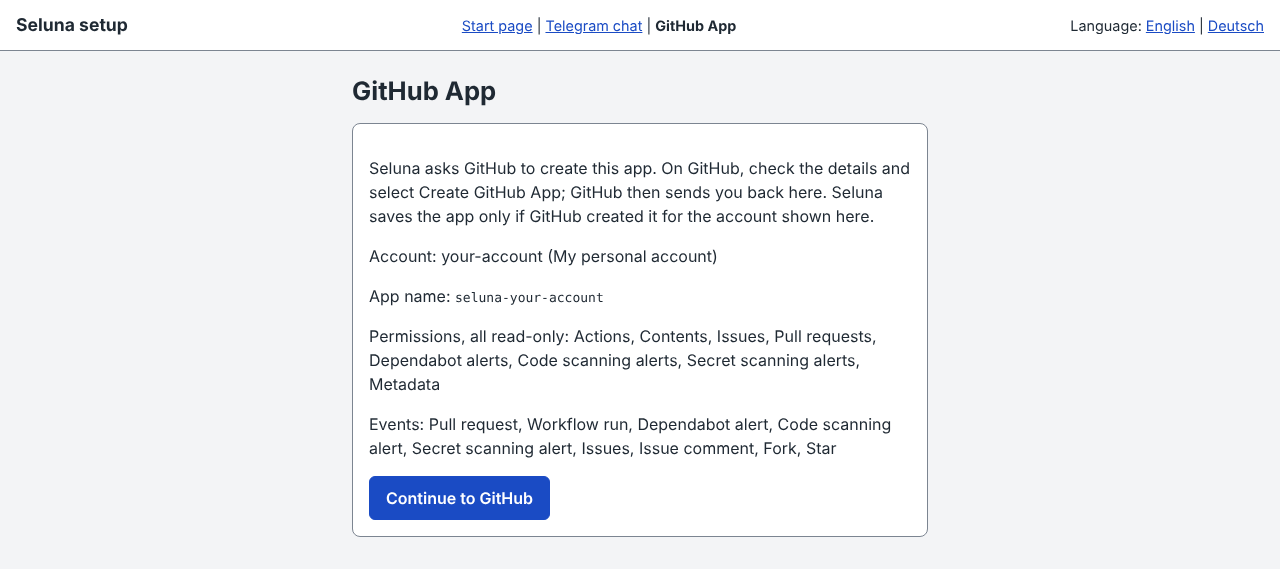
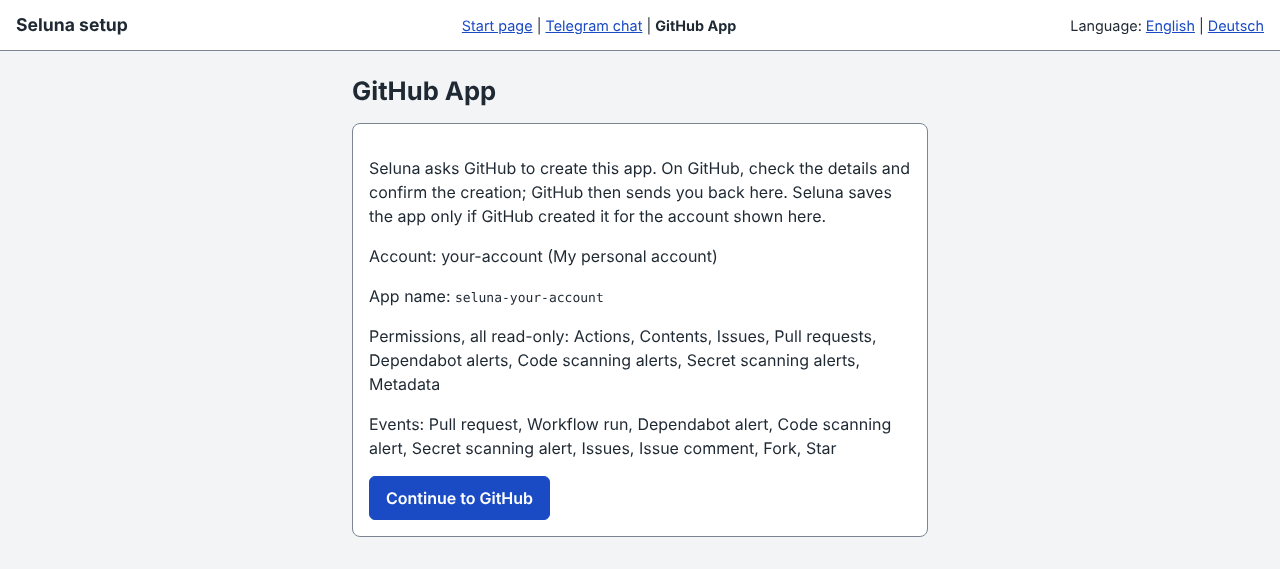
[Setup] Describe other services' steps in plain words on the setup pages (#169)

Changed region(s): [[0.2812, 0.3286, 0.6875, 0.3884]]

diff --git a/src/setup/texts.ts b/src/setup/texts.ts
@@ -236,13 +236,13 @@ const ENGLISH: SetupTexts = {
   githubSavedApp: "Saved GitHub App, App ID:",
   githubNoSavedApp: "No GitHub App is saved yet.",
   githubReplaceHint:
-    "Creating a new app replaces the saved one. Delete the old app on GitHub afterwards: in the settings of your account or organization, under Developer settings, then GitHub Apps.",
+    "Creating a new app replaces the saved one. Afterwards, delete the old app on GitHub, in the settings of the account or organization that owns it.",
   githubPersonal: "My personal account",
   githubOrganization: "An organization",
   githubAccountLabel: "Name of the account or organization, as in github.com/name",
   githubNextButton: "Next",
   githubReviewIntro:
-    "Seluna asks GitHub to create this app. On GitHub, check the details and select Create GitHub App; GitHub then sends you back here. Seluna saves the app only if GitHub created it for the account shown here.",
+    "Seluna asks GitHub to create this app. On GitHub, check the details and confirm the creation; GitHub then sends you back here. Seluna saves the app only if GitHub created it for the account shown here.",
   githubReviewAccountLabel: "Account:",
   githubAppNameLabel: "App name:",
   githubPermissionsLabel: "Permissions, all read-only:",
@@ -259,7 +259,7 @@ const ENGLISH: SetupTexts = {
     "Now install it on your account or organization. Choosing Only select repositories is recommended: Seluna then sees only the repositories you pick, and you add a new repository to the installation by hand.",
   githubInstallLink: "Install the app on GitHub",
   githubInstallManual:
-    "Install it on GitHub: in the settings of your account or organization, open Developer settings, then GitHub Apps, choose the app and select Install App. Choosing Only select repositories is recommended: Seluna then sees only the repositories you pick, and you add a new repository to the installation by hand.",
+    "Install it on GitHub: open the app in the settings of your account or organization and install it there. Choosing Only select repositories is recommended: Seluna then sees only the repositories you pick, and you add a new repository to the installation by hand.",
   githubBackLink: "Back to the GitHub App step",
   statusHeading: "Status",
   versionLabel: "Version:",
@@ -304,7 +304,7 @@ const ENGLISH: SetupTexts = {
   accessNotChecked: "access not checked",
   resetHeading: "The saved credentials cannot be read",
   resetText:
-    "The saved credentials cannot be read with the current SELUNA_SECRET: it was changed, or a saved value is damaged. If you still know the earlier SELUNA_SECRET, set it again instead. Otherwise reset: Seluna deletes the saved GitHub credentials, the installation tokens and the saved Telegram bot token; you then create the GitHub App again and enter the bot token again in the Telegram chat step. Delete the old app on GitHub afterwards: in the settings of your account or organization, under Developer settings, then GitHub Apps. The Telegram chat and the settings are kept.",
+    "The saved credentials cannot be read with the current SELUNA_SECRET: it was changed, or a saved value is damaged. If you still know the earlier SELUNA_SECRET, set it again instead. Otherwise reset: Seluna deletes the saved GitHub credentials, the installation tokens and the saved Telegram bot token; you then create the GitHub App again and enter the bot token again in the Telegram chat step. Afterwards, delete the old app on GitHub, in the settings of the account or organization that owns it. The Telegram chat and the settings are kept.",
   resetButton: "Reset and create the GitHub App again",
   settingsHeading: "Settings",
   notificationLanguageLabel: "Language of the notifications",
@@ -337,7 +337,7 @@ const ENGLISH: SetupTexts = {
   notConfiguredParagraphs: [
     "The setup cannot start because the Worker secret SELUNA_SECRET is missing or shorter than 32 characters.",
     "Create a random string of at least 32 characters, for example with a password manager or with: openssl rand -hex 32",
-    "In the Cloudflare dashboard open this Worker, then Settings, then Variables and Secrets, and add a secret named SELUNA_SECRET with that string. Or run: npx wrangler secret put SELUNA_SECRET",
+    "In the Cloudflare dashboard, add a secret named SELUNA_SECRET with that string to this Worker. Or run: npx wrangler secret put SELUNA_SECRET",
     "Then reload this page.",
   ],
   messengersHeading: "Messengers",
@@ -359,20 +359,20 @@ const ENGLISH: SetupTexts = {
     "messenger-invalid": "Please choose a messenger from the list.",
     "messenger-not-set-up": "This messenger is not set up yet. Set it up first, then activate it.",
     "messenger-worker-secrets":
-      "This messenger is set by Worker secrets, which Seluna cannot remove. Delete them in the Cloudflare dashboard under Settings, then Variables and Secrets.",
+      "This messenger is set by Worker secrets, which Seluna cannot remove. Delete them from this Worker in the Cloudflare dashboard.",
     "wrong-secret": "That is not the SELUNA_SECRET of this instance.",
     locked:
       "Too many failed attempts. Signing in is locked for 15 minutes after the fifth failed attempt; try again later.",
     "form-expired": "The form has expired. Please submit it again.",
     unavailable: "The setup is unavailable right now. Please try again in a moment.",
     "migrations-missing":
-      "The database of this instance is missing its tables: the database migrations have not run. In the Cloudflare dashboard open Workers & Pages, this Worker, Settings and Build, set the Deploy command to npm run deploy and retry the latest build, as the setup guide describes.",
+      "The database of this instance is missing its tables: the database migrations have not run. In the Cloudflare dashboard, set the deploy command in this Worker's build settings to npm run deploy and retry the latest build, as the setup guide describes.",
     "telegram-token-missing":
       "No usable bot token is available. Open the Telegram chat step and check the bot token there.",
     "telegram-token-malformed":
-      "The Worker secret TELEGRAM_BOT_TOKEN is not a bot token. A token from @BotFather is digits, a colon, then letters, digits, - and _, without spaces. Copy it again from @BotFather and replace the secret in the Cloudflare dashboard under Settings, then Variables and Secrets.",
+      "The Worker secret TELEGRAM_BOT_TOKEN is not a bot token. A token from @BotFather is digits, a colon, then letters, digits, - and _, without spaces. Copy it again from @BotFather and replace the secret of this Worker in the Cloudflare dashboard.",
     "telegram-token-rejected":
-      "Telegram does not accept the Worker secret TELEGRAM_BOT_TOKEN: it is mistyped or was revoked. Send /mybots to @BotFather, copy your bot's current token and replace the secret in the Cloudflare dashboard under Settings, then Variables and Secrets.",
+      "Telegram does not accept the Worker secret TELEGRAM_BOT_TOKEN: it is mistyped or was revoked. Send /mybots to @BotFather, copy your bot's current token and replace the secret of this Worker in the Cloudflare dashboard.",
     "telegram-token-invalid":
       "That is not a bot token. A token from @BotFather is digits, a colon, then letters, digits, - and _, without spaces. Copy it again from @BotFather. Nothing was saved.",
     "telegram-token-not-accepted":
@@ -475,13 +475,13 @@ const GERMAN: SetupTexts = {
   githubSavedApp: "Gespeicherte GitHub-App, App-ID:",
   githubNoSavedApp: "Es ist noch keine GitHub-App gespeichert.",
   githubReplaceHint:
-    "Eine neue App ersetzt die gespeicherte. Lösche die alte App danach auf GitHub: in den Einstellungen deines Kontos oder deiner Organisation unter Developer settings, dann GitHub Apps.",
+    "Eine neue App ersetzt die gespeicherte. Lösche die alte App danach auf GitHub, in den Einstellungen des Kontos oder der Organisation, der sie gehört.",
   githubPersonal: "Mein persönliches Konto",
   githubOrganization: "Eine Organisation",
   githubAccountLabel: "Name des Kontos oder der Organisation, wie in github.com/name",
   githubNextButton: "Weiter",
   githubReviewIntro:
-    "Seluna bittet GitHub, diese App zu erstellen. Prüfe auf GitHub die Angaben und wähle Create GitHub App; GitHub schickt dich danach hierher zurück. Seluna speichert die App nur, wenn GitHub sie für das hier gezeigte Konto erstellt hat.",
+    "Seluna bittet GitHub, diese App zu erstellen. Prüfe auf GitHub die Angaben und bestätige das Erstellen; GitHub schickt dich danach hierher zurück. Seluna speichert die App nur, wenn GitHub sie für das hier gezeigte Konto erstellt hat.",
   githubReviewAccountLabel: "Konto:",
   githubAppNameLabel: "App-Name:",
   githubPermissionsLabel: "Berechtigungen, alle nur lesend:",
@@ -499,7 +499,7 @@ const GERMAN: SetupTexts = {
     "Installiere sie jetzt auf deinem Konto oder deiner Organisation. Empfohlen ist die Auswahl Only select repositories: Seluna sieht dann nur die Repositories, die du auswählst, und ein neues Repository fügst du der Installation von Hand hinzu.",
   githubInstallLink: "App auf GitHub installieren",
   githubInstallManual:
-    "Installiere sie auf GitHub: Öffne in den Einstellungen deines Kontos oder deiner Organisation Developer settings, dann GitHub Apps, wähle die App und klicke auf Install App. Empfohlen ist die Auswahl Only select repositories: Seluna sieht dann nur die Repositories, die du auswählst, und ein neues Repository fügst du der Installation von Hand hinzu.",
+    "Installiere sie auf GitHub: Öffne die App in den Einstellungen deines Kontos oder deiner Organisation und installiere sie dort. Empfohlen ist die Auswahl Only select repositories: Seluna sieht dann nur die Repositories, die du auswählst, und ein neues Repository fügst du der Installation von Hand hinzu.",
   githubBackLink: "Zurück zum Schritt GitHub-App",
   statusHeading: "Status",
   versionLabel: "Version:",
@@ -544,7 +544,7 @@ const GERMAN: SetupTexts = {
   accessNotChecked: "Zugriff nicht geprüft",
   resetHeading: "Die gespeicherten Zugangsdaten sind nicht lesbar",
   resetText:
-    "Die gespeicherten Zugangsdaten sind mit dem aktuellen SELUNA_SECRET nicht lesbar: Es wurde geändert, oder ein gespeicherter Wert ist beschädigt. Wenn du das frühere SELUNA_SECRET noch kennst, setze es stattdessen wieder. Andernfalls setze zurück: Seluna löscht die gespeicherten GitHub-Zugangsdaten, die Installations-Tokens und den gespeicherten Telegram-Bot-Token; du erstellst danach die GitHub-App neu und gibst den Bot-Token im Schritt Telegram-Chat erneut ein. Lösche die alte App danach auf GitHub: in den Einstellungen deines Kontos oder deiner Organisation unter Developer settings, dann GitHub Apps. Der Telegram-Chat und die Einstellungen bleiben erhalten.",
+    "Die gespeicherten Zugangsdaten sind mit dem aktuellen SELUNA_SECRET nicht lesbar: Es wurde geändert, oder ein gespeicherter Wert ist beschädigt. Wenn du das frühere SELUNA_SECRET noch kennst, setze es stattdessen wieder. Andernfalls setze zurück: Seluna löscht die gespeicherten GitHub-Zugangsdaten, die Installations-Tokens und den gespeicherten Telegram-Bot-Token; du erstellst danach die GitHub-App neu und gibst den Bot-Token im Schritt Telegram-Chat erneut ein. Lösche die alte App danach auf GitHub, in den Einstellungen des Kontos oder der Organisation, der sie gehört. Der Telegram-Chat und die Einstellungen bleiben erhalten.",
   resetButton: "Zurücksetzen und GitHub-App neu erstellen",
   settingsHeading: "Einstellungen",
   notificationLanguageLabel: "Sprache der Benachrichtigungen",
@@ -577,7 +577,7 @@ const GERMAN: SetupTexts = {
   notConfiguredParagraphs: [
     "Die Einrichtung kann nicht starten, weil das Worker-Secret SELUNA_SECRET fehlt oder kürzer als 32 Zeichen ist.",
     "Erzeuge eine zufällige Zeichenfolge mit mindestens 32 Zeichen, zum Beispiel mit einem Passwortmanager oder mit: openssl rand -hex 32",
-    "Öffne im Cloudflare-Dashboard diesen Worker, dann Settings, dann Variables and Secrets, und füge ein Secret namens SELUNA_SECRET mit dieser Zeichenfolge hinzu. Oder führe aus: npx wrangler secret put SELUNA_SECRET",
+    "Füge im Cloudflare-Dashboard diesem Worker ein Secret namens SELUNA_SECRET mit dieser Zeichenfolge hinzu. Oder führe aus: npx wrangler secret put SELUNA_SECRET",
     "Lade danach diese Seite neu.",
   ],
   messengersHeading: "Messenger",
@@ -600,20 +600,20 @@ const GERMAN: SetupTexts = {
     "messenger-not-set-up":
       "Dieser Messenger ist noch nicht eingerichtet. Richte ihn zuerst ein und aktiviere ihn dann.",
     "messenger-worker-secrets":
-      "Dieser Messenger ist durch Worker-Secrets gesetzt, die Seluna nicht entfernen kann. Lösche sie im Cloudflare-Dashboard unter Settings, dann Variables and Secrets.",
+      "Dieser Messenger ist durch Worker-Secrets gesetzt, die Seluna nicht entfernen kann. Lösche sie im Cloudflare-Dashboard bei diesem Worker.",
     "wrong-secret": "Das ist nicht das SELUNA_SECRET dieser Instanz.",
     locked:
       "Zu viele fehlgeschlagene Versuche. Die Anmeldung ist nach dem fünften fehlgeschlagenen Versuch 15 Minuten lang gesperrt; versuche es später erneut.",
     "form-expired": "Das Formular ist abgelaufen. Bitte sende es erneut ab.",
     unavailable: "Die Einrichtung ist gerade nicht verfügbar. Bitte versuche es gleich noch einmal.",
     "migrations-missing":
-      "Der Datenbank dieser Instanz fehlen ihre Tabellen: Die Datenbank-Migrationen wurden nicht ausgeführt. Öffne im Cloudflare-Dashboard Workers & Pages, diesen Worker, Settings und Build, setze den Deploy command auf npm run deploy und wiederhole den letzten Build, wie es die Einrichtungsanleitung beschreibt.",
+      "Der Datenbank dieser Instanz fehlen ihre Tabellen: Die Datenbank-Migrationen wurden nicht ausgeführt. Setze im Cloudflare-Dashboard in den Build-Einstellungen dieses Workers den Deploy-Befehl auf npm run deploy und wiederhole den letzten Build, wie es die Einrichtungsanleitung beschreibt.",
     "telegram-token-missing":
       "Es ist kein verwendbarer Bot-Token verfügbar. Öffne den Schritt Telegram-Chat und prüfe dort den Bot-Token.",
     "telegram-token-malformed":
-      "Das Worker-Secret TELEGRAM_BOT_TOKEN ist kein Bot-Token. Ein Token von @BotFather besteht aus Ziffern, einem Doppelpunkt und dann Buchstaben, Ziffern, - und _, ohne Leerzeichen. Kopiere ihn erneut von @BotFather und ersetze das Secret im Cloudflare-Dashboard unter Settings, dann Variables and Secrets.",
+      "Das Worker-Secret TELEGRAM_BOT_TOKEN ist kein Bot-Token. Ein Token von @BotFather besteht aus Ziffern, einem Doppelpunkt und dann Buchstaben, Ziffern, - und _, ohne Leerzeichen. Kopiere ihn erneut von @BotFather und ersetze das Secret dieses Workers im Cloudflare-Dashboard.",
     "telegram-token-rejected":
-      "Telegram akzeptiert das Worker-Secret TELEGRAM_BOT_TOKEN nicht: Es ist falsch geschrieben oder wurde widerrufen. Sende /mybots an @BotFather, kopiere den aktuellen Token deines Bots und ersetze das Secret im Cloudflare-Dashboard unter Settings, dann Variables and Secrets.",
+      "Telegram akzeptiert das Worker-Secret TELEGRAM_BOT_TOKEN nicht: Es ist falsch geschrieben oder wurde widerrufen. Sende /mybots an @BotFather, kopiere den aktuellen Token deines Bots und ersetze das Secret dieses Workers im Cloudflare-Dashboard.",
     "telegram-token-invalid":
       "Das ist kein Bot-Token. Ein Token von @BotFather besteht aus Ziffern, einem Doppelpunkt und dann Buchstaben, Ziffern, - und _, ohne Leerzeichen. Kopiere ihn erneut von @BotFather. Es wurde nichts gespeichert.",
     "telegram-token-not-accepted":

diff --git a/src/setup/texts.test.ts b/src/setup/texts.test.ts
@@ -68,13 +68,13 @@ describe("TEXTS", () => {
       "form-expired": "The form has expired. Please submit it again.",
       unavailable: "The setup is unavailable right now. Please try again in a moment.",
       "migrations-missing":
-        "The database of this instance is missing its tables: the database migrations have not run. In the Cloudflare dashboard open Workers & Pages, this Worker, Settings and Build, set the Deploy command to npm run deploy and retry the latest build, as the setup guide describes.",
+        "The database of this instance is missing its tables: the database migrations have not run. In the Cloudflare dashboard, set the deploy command in this Worker's build settings to npm run deploy and retry the latest build, as the setup guide describes.",
       "telegram-token-missing":
         "No usable bot token is available. Open the Telegram chat step and check the bot token there.",
       "telegram-token-malformed":
-        "The Worker secret TELEGRAM_BOT_TOKEN is not a bot token. A token from @BotFather is digits, a colon, then letters, digits, - and _, without spaces. Copy it again from @BotFather and replace the secret in the Cloudflare dashboard under Settings, then Variables and Secrets.",
+        "The Worker secret TELEGRAM_BOT_TOKEN is not a bot token. A token from @BotFather is digits, a colon, then letters, digits, - and _, without spaces. Copy it again from @BotFather and replace the secret of this Worker in the Cloudflare dashboard.",
       "telegram-token-rejected":
-        "Telegram does not accept the Worker secret TELEGRAM_BOT_TOKEN: it is mistyped or was revoked. Send /mybots to @BotFather, copy your bot's current token and replace the secret in the Cloudflare dashboard under Settings, then Variables and Secrets.",
+        "Telegram does not accept the Worker secret TELEGRAM_BOT_TOKEN: it is mistyped or was revoked. Send /mybots to @BotFather, copy your bot's current token and replace the secret of this Worker in the Cloudflare dashboard.",
       "telegram-token-invalid":
         "That is not a bot token. A token from @BotFather is digits, a colon, then letters, digits, - and _, without spaces. Copy it again from @BotFather. Nothing was saved.",
       "telegram-token-not-accepted":
@@ -122,7 +122,7 @@ describe("TEXTS", () => {
       "messenger-invalid": "Please choose a messenger from the list.",
       "messenger-not-set-up": "This messenger is not set up yet. Set it up first, then activate it.",
       "messenger-worker-secrets":
-        "This messenger is set by Worker secrets, which Seluna cannot remove. Delete them in the Cloudflare dashboard under Settings, then Variables and Secrets.",
+        "This messenger is set by Worker secrets, which Seluna cannot remove. Delete them from this Worker in the Cloudflare dashboard.",
     });
   });
 
@@ -320,13 +320,13 @@ describe("TEXTS", () => {
       githubSavedApp: "Saved GitHub App, App ID:",
       githubNoSavedApp: "No GitHub App is saved yet.",
       githubReplaceHint:
-        "Creating a new app replaces the saved one. Delete the old app on GitHub afterwards: in the settings of your account or organization, under Developer settings, then GitHub Apps.",
+        "Creating a new app replaces the saved one. Afterwards, delete the old app on GitHub, in the settings of the account or organization that owns it.",
       githubPersonal: "My personal account",
       githubOrganization: "An organization",
       githubAccountLabel: "Name of the account or organization, as in github.com/name",
       githubNextButton: "Next",
       githubReviewIntro:
-        "Seluna asks GitHub to create this app. On GitHub, check the details and select Create GitHub App; GitHub then sends you back here. Seluna saves the app only if GitHub created it for the account shown here.",
+        "Seluna asks GitHub to create this app. On GitHub, check the details and confirm the creation; GitHub then sends you back here. Seluna saves the app only if GitHub created it for the account shown here.",
       githubReviewAccountLabel: "Account:",
       githubAppNameLabel: "App name:",
       githubPermissionsLabel: "Permissions, all read-only:",
@@ -343,7 +343,7 @@ describe("TEXTS", () => {
         "Now install it on your account or organization. Choosing Only select repositories is recommended: Seluna then sees only the repositories you pick, and you add a new repository to the installation by hand.",
       githubInstallLink: "Install the app on GitHub",
       githubInstallManual:
-        "Install it on GitHub: in the settings of your account or organization, open Developer settings, then GitHub Apps, choose the app and select Install App. Choosing Only select repositories is recommended: Seluna then sees only the repositories you pick, and you add a new repository to the installation by hand.",
+        "Install it on GitHub: open the app in the settings of your account or organization and install it there. Choosing Only select repositories is recommended: Seluna then sees only the repositories you pick, and you add a new repository to the installation by hand.",
       githubBackLink: "Back to the GitHub App step",
     });
   });
@@ -406,7 +406,7 @@ describe("TEXTS", () => {
       noneReceivedYet: "None received yet.",
       resetHeading: "The saved credentials cannot be read",
       resetText:
-        "The saved credentials cannot be read with the current SELUNA_SECRET: it was changed, or a saved value is damaged. If you still know the earlier SELUNA_SECRET, set it again instead. Otherwise reset: Seluna deletes the saved GitHub credentials, the installation tokens and the saved Telegram bot token; you then create the GitHub App again and enter the bot token again in the Telegram chat step. Delete the old app on GitHub afterwards: in the settings of your account or organization, under Developer settings, then GitHub Apps. The Telegram chat and the settings are kept.",
+        "The saved credentials cannot be read with the current SELUNA_SECRET: it was changed, or a saved value is damaged. If you still know the earlier SELUNA_SECRET, set it again instead. Otherwise reset: Seluna deletes the saved GitHub credentials, the installation tokens and the saved Telegram bot token; you then create the GitHub App again and enter the bot token again in the Telegram chat step. Afterwards, delete the old app on GitHub, in the settings of the account or organization that owns it. The Telegram chat and the settings are kept.",
       resetButton: "Reset and create the GitHub App again",
       startPageLink: "Start page",
       settingsHeading: "Settings",
@@ -470,5 +470,35 @@ describe("TEXTS", () => {
       [de.ruleLabels.issue_opened, de.ruleLabels.issue_comment, de.ruleLabels.pull_request_comment],
       "German labels of the issue and comment switches",
     ).toEqual(["Neues Issue", "Neuer Kommentar zu einem Issue", "Neuer Kommentar zu einem Pull Request"]);
+  });
+
+  it("AC1 texts quote no menu path or button label of Cloudflare or GitHub in either language", () => {
+    const forbidden = [
+      "Developer settings",
+      "GitHub Apps",
+      "Install App",
+      "Create GitHub App",
+      "Variables and Secrets",
+      "Workers & Pages",
+      "Settings and Build",
+      "Settings und Build",
+      "Deploy command",
+      "Settings, then",
+      "Settings, dann",
+    ];
+    const quoting = [...textsOf(TEXTS.en), ...textsOf(TEXTS.de)].flatMap((text) =>
+      forbidden.filter((phrase) => text.includes(phrase)).map((phrase) => `${phrase}: ${text}`),
+    );
+
+    expect(quoting, "texts quoting a menu path or button label").toEqual([]);
+  });
+
+  it("AC2 texts word the English not-configured page without a menu path", () => {
+    expect(TEXTS.en.notConfiguredParagraphs, "English not-configured paragraphs").toEqual([
+      "The setup cannot start because the Worker secret SELUNA_SECRET is missing or shorter than 32 characters.",
+      "Create a random string of at least 32 characters, for example with a password manager or with: openssl rand -hex 32",
+      "In the Cloudflare dashboard, add a secret named SELUNA_SECRET with that string to this Worker. Or run: npx wrangler secret put SELUNA_SECRET",
+      "Then reload this page.",
+    ]);
   });
 });

diff --git a/docs/decisions/0049-setup-page-texts-describe-other-services-in-plain-words.md b/docs/decisions/0049-setup-page-texts-describe-other-services-in-plain-words.md
@@ -1,0 +1,47 @@
+# 0049: Setup page texts describe other services' steps in plain words
+
+- **Status:** Accepted
+- **Date:** 2026-11-07
+- **Area:** Setup wizard
+- **Source:** Issue #164
+- **Supersedes:** —
+
+## Context
+
+[Decision 0047](0047-setup-guide-screenshots-of-selunas-own-pages.md) has the setup guides, the troubleshooting page
+and the update guide describe Cloudflare's, GitHub's and Telegram's steps in plain words, without their menu paths and
+labels, because those pages change faster than the guides are checked. The setup pages themselves
+(`src/setup/texts.ts`) still quoted such paths and labels in nine texts per language: the Worker's
+_Settings_ → _Variables and Secrets_, _Workers & Pages_ → _Settings_ → _Build_ and the _Deploy command_, GitHub's
+_Developer settings_ → _GitHub Apps_, _Install App_ and _Create GitHub App_. A setup page is product code: its text
+changes only with a release and its tests, so a renamed menu leaves an instance with a wrong instruction until the
+owner updates.
+
+## Options considered
+
+1. **Plain words in the setup texts, as in the guides** — what to do and where (the Worker's secrets or build
+   settings in the Cloudflare dashboard, the settings of the account that owns the app on GitHub), no menu path or
+   label of another service; the guides keep the links to those services' documentation. One rule for every text a
+   reader follows. Chosen.
+2. **Keep the menu paths in the setup texts** — easiest to follow while they are right, but they age with the other
+   service's pages, and only a release corrects them.
+3. **Plain words plus a link from the page to the other service's documentation** — the texts are plain strings that
+   `src/setup/pages.ts` escapes; links would change the page markup of several pages for what the setup guide, which
+   the texts already name, carries.
+4. **Also replace _Only select repositories_** — it is a GitHub label too, but it names the one installation choice
+   whose risk the README explains, and the guides, the README and the GitHub App step's recommendation (with its
+   tests and screenshot) quote it as Seluna's own recommendation. Not chosen.
+
+## Decision
+
+Option 1: the setup texts describe other services' steps in plain words and quote no menu path or button label of
+them; Seluna's own labels, the recommended installation choice _Only select repositories_ and commands (the bot
+commands to @BotFather, `openssl` and `wrangler`) stay. The rule is in [Setup wizard](../areas/setup-wizard.md#texts).
+
+## Consequences
+
+- A renamed menu at Cloudflare or GitHub leaves the setup pages correct; the owner finds the place from the
+  description, or from the setup guide's link to that service's documentation.
+- The plain description is less exact than a path on the day it is written.
+- _Only select repositories_ still ties two texts to GitHub's label; renaming it at GitHub needs a text change.
+- The review page's screenshot in the guides changes with its text.

diff --git a/docs/areas/setup-wizard.md b/docs/areas/setup-wizard.md
@@ -176,8 +176,13 @@ two setup steps build on it, each in its own area document ([Not here](#not-here
 - The _not configured_ page says that the setup cannot start because the Worker secret `SELUNA_SECRET` is missing or
   shorter than 32 characters, without saying which of the two; it explains how to create a random string of at
   least 32 characters (a password manager, or `openssl rand -hex 32`) and how to set it (in the Cloudflare dashboard
-  under the Worker's _Settings_ → _Variables and Secrets_, or with `npx wrangler secret put SELUNA_SECRET`), then
+  among the Worker's secrets, or with `npx wrangler secret put SELUNA_SECRET`), then
   to reload the page.
+- The texts describe other services' steps (Cloudflare, GitHub, Telegram) in plain words, saying what to do and
+  where (the Worker's secrets or build settings in the Cloudflare dashboard, the settings of the account or
+  organization that owns the app on GitHub), and quote no menu path or button label of them. Seluna's own labels,
+  the recommended installation choice _Only select repositories_ and commands (the bot commands to @BotFather,
+  `openssl`, `wrangler`) stay ([decision 0049](../decisions/0049-setup-page-texts-describe-other-services-in-plain-words.md)).
 - The _unavailable_ notice says only that the setup is unavailable and to try again; it never says why.
 
 ## Limits and errors
@@ -201,6 +206,8 @@ two setup steps build on it, each in its own area document ([Not here](#not-here
 - [`decisions/0034-setup-page-layout-checked-on-the-style.md`](../decisions/0034-setup-page-layout-checked-on-the-style.md)
   — the page layout and its colours as custom properties per mode, verified on the style and the rendered markup
   instead of in a browser.
+- [`decisions/0049-setup-page-texts-describe-other-services-in-plain-words.md`](../decisions/0049-setup-page-texts-describe-other-services-in-plain-words.md)
+  — the setup texts describe other services' steps in plain words, without their menu paths and labels.
 - [`decisions/0007-github-app-credentials-encrypted-in-d1.md`](../decisions/0007-github-app-credentials-encrypted-in-d1.md)
   — the 32-character minimum of `SELUNA_SECRET` and separate keys per purpose.
 

diff --git a/docs/CONTRIBUTING.md b/docs/CONTRIBUTING.md
@@ -157,7 +157,7 @@ same pull request. The two guides keep the same sections in the same order, and 
 the same pull request. The screenshots show made-up values only (account `your-account`, App ID `123456`, no token,
 id or address of a real account); no generator is committed.
 
-In the setup guides, the troubleshooting page and the update guide (`docs/update.md`), other services' steps (Telegram, Cloudflare, GitHub) are described in plain words, saying what the reader does and why, with a link to that service's documentation of the step where that service documents the step in its web interface. A step it documents only as a command goes without a link, since the guides need no command. They give no menu path and no label of that service the reader must find word for word, and they carry no note that a statement was not confirmed by a test run: other services change their pages faster than the guides can follow. Only Seluna's own labels are quoted, verbatim from where Seluna defines them: `src/setup/texts.ts`, the README's deploy button and the update workflow's name and input (`.github/workflows/update.yml`).
+In the setup guides, the troubleshooting page and the update guide (`docs/update.md`), other services' steps (Telegram, Cloudflare, GitHub) are described in plain words, saying what the reader does and why, with a link to that service's documentation of the step where that service documents the step in its web interface. A step it documents only as a command goes without a link, since the guides need no command. They give no menu path and no label of that service the reader must find word for word, and they carry no note that a statement was not confirmed by a test run: other services change their pages faster than the guides can follow. Only Seluna's own labels are quoted, verbatim from where Seluna defines them: `src/setup/texts.ts`, the README's deploy button and the update workflow's name and input (`.github/workflows/update.yml`). The setup pages' texts (`src/setup/texts.ts`) follow the same rule ([Setup wizard](areas/setup-wizard.md#texts)).
 
 ### Release plan up to 1.0.0
 

diff --git a/docs/areas/setup-login.md b/docs/areas/setup-login.md
@@ -29,8 +29,8 @@ else out of the wizard; every page behind the login relies on the session and th
   after the failure; no error is read), otherwise _unavailable_, which is also the answer when that read fails. The
   secret is not checked when counting failed, so the answer is the same for a wrong secret.
 - The _migrations missing_ notice tells the owner that the database migrations have not run and how to fix it: set
-  the Worker's deploy command to `npm run deploy` in the Cloudflare dashboard (_Workers & Pages_, the Worker,
-  _Settings_, _Build_) and retry the latest build, as the setup guide describes ([Deployment](deployment.md)).
+  the Worker's deploy command to `npm run deploy` in the Worker's build settings in the Cloudflare dashboard
+  and retry the latest build, as the setup guide describes ([Deployment](deployment.md)).
 - The _locked_ notice says that signing in is locked for 15 minutes after the fifth failed attempt.
 - A browser's password field cannot hold a line break, so a `SELUNA_SECRET` that contains one cannot be entered.
 

diff --git a/docs/areas/status-page.md b/docs/areas/status-page.md
@@ -164,8 +164,8 @@ Telegram is the only registered messenger today (the registry is `src/channels/r
   `POST /setup/reset` with the session-bound `csrf` field and the danger button.
 - The _reset text_ says what a reset deletes (the saved GitHub credentials, the installation tokens and the saved bot
   token) and what it keeps (the chat and the settings), that setting the earlier `SELUNA_SECRET` again is the
-  alternative, and that the old app is then deleted on GitHub by hand (where, in the account's or organization's
-  developer settings).
+  alternative, and that the old app is then deleted on GitHub by hand (in the settings of the account or organization
+  that owns it).
 - `POST /setup/reset`, after the body and the CSRF token (**403**, notice-only start page, _form expired_):
   - when a reset is needed, it deletes every `secrets` row (the GitHub App credentials and a saved Telegram bot
     token), every `token_cache` row and the `meta` row `key_check` and answers **303** with

diff --git a/docs/areas/telegram-step.md b/docs/areas/telegram-step.md
@@ -88,7 +88,7 @@ token and chat it resolves ([Delivery](delivery.md#sending-a-row)).
 - The token notices that reject a value (_token invalid_, _token malformed_) describe the token form and say to copy
   the token again from @BotFather; those that report a rejected token (_token not accepted_, _token rejected_,
   _saved token rejected_) say to fetch the bot's current token from @BotFather (with `/mybots`); a notice about a
-  Worker secret says where it is replaced (the Cloudflare dashboard, _Settings_, _Variables and Secrets_); _token
+  Worker secret says where it is replaced (the Worker's secrets in the Cloudflare dashboard); _token
   unreadable_ and _token not saved_ offer setting the earlier `SELUNA_SECRET` again or the reset on the start page.
 
 ### The step page

diff --git a/docs/decisions/README.md b/docs/decisions/README.md
@@ -111,5 +111,6 @@ once in the [area document](../areas/README.md) of the record's area, and the re
 | [0046](0046-process-decisions-live-in-process-md.md) | The squad's process decisions live in process.md | Accepted | 2026-11-06 |
 | [0047](0047-setup-guide-screenshots-of-selunas-own-pages.md) | Setup guide with screenshots of Seluna's own pages only | Accepted | 2026-11-05 |
 | [0048](0048-setup-guide-in-english-and-german.md) | Setup guide in English and German | Accepted | 2026-11-05 |
+| [0049](0049-setup-page-texts-describe-other-services-in-plain-words.md) | Setup page texts describe other services' steps in plain words | Accepted | 2026-11-07 |
 
 <!-- project:end index -->

diff --git a/CHANGELOG.md b/CHANGELOG.md
@@ -13,6 +13,7 @@ and this project adheres to [Semantic Versioning](https://semver.org/spec/v2.0.0
 
 ### Changed
 
+- Setup pages: the texts describe Cloudflare's and GitHub's steps in plain words instead of their menu paths and labels.
 - Documentation: the update guide (`docs/update.md`) describes GitHub's and Cloudflare's steps in plain words with links to their documentation instead of their menu paths and labels.
 
 ## [0.8.0] - 2026-11-04
